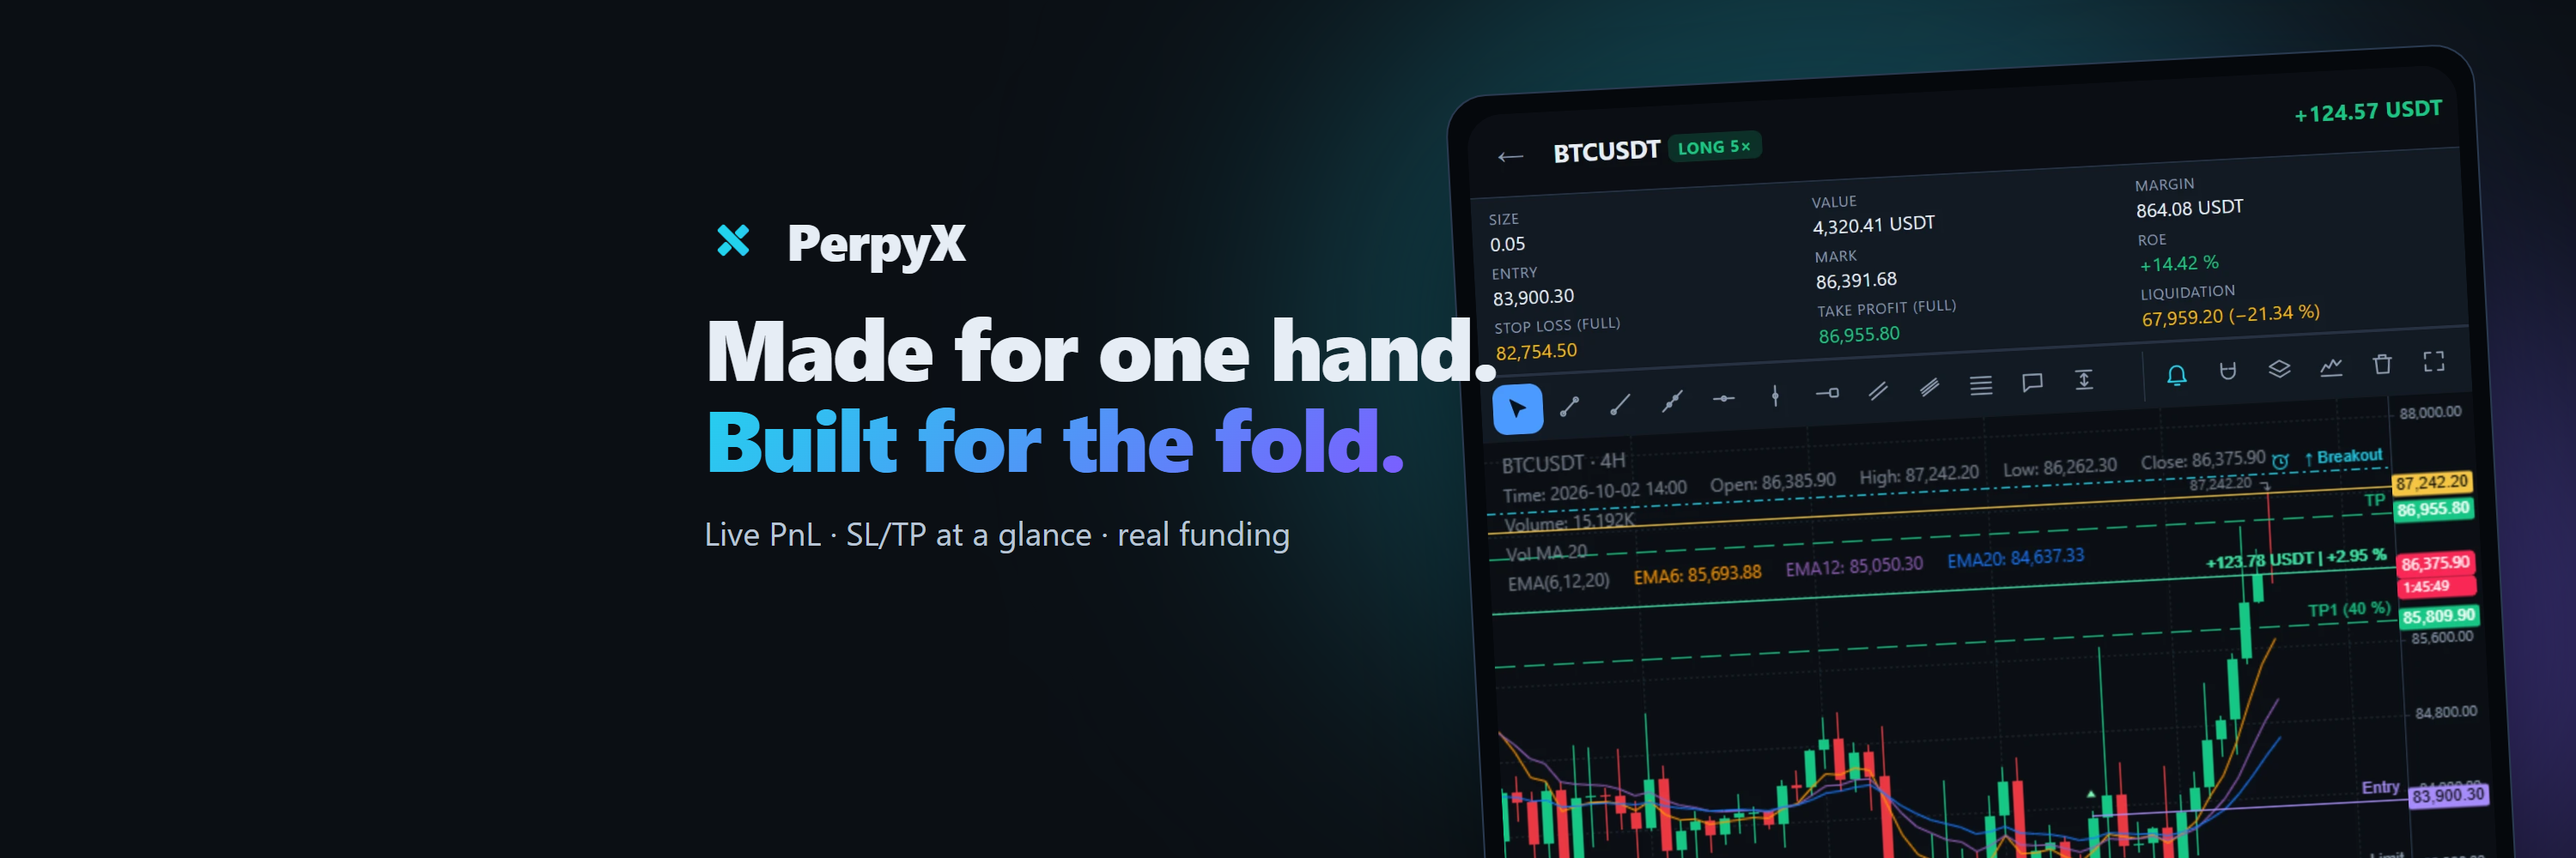
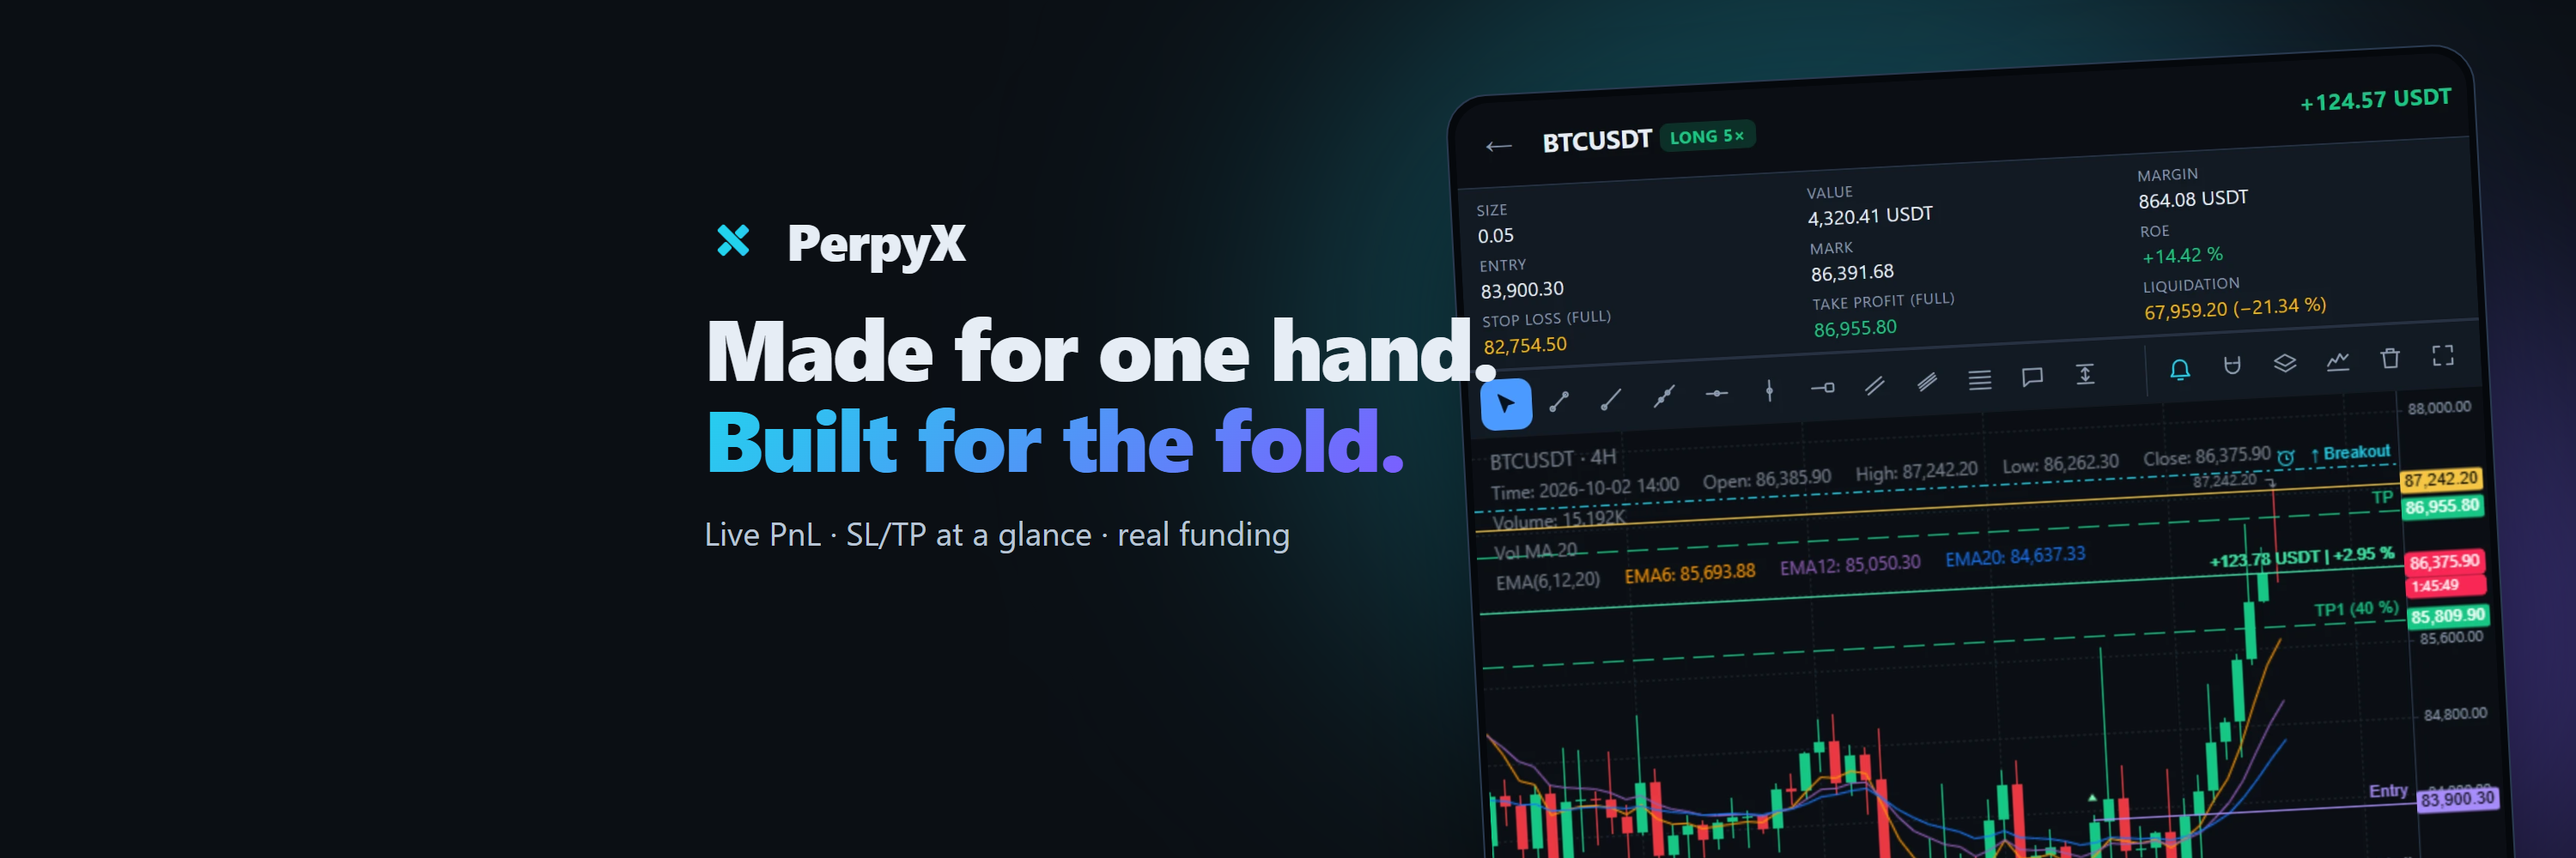
Design X: displej az k ramecku (okraj v px, ne v procentech zahlavi)
Claude-Session: https://claude.ai/code/session_015bSMKh62UKs2XyHsFmV9vj

diff --git a/design/x-profil/zahlavi.html b/design/x-profil/zahlavi.html
@@ -35,12 +35,14 @@
   /* Rámeček jako na webu (tmavý s jemnou linkou), jen tenčí: displej sahá
      skoro k okraji. Šedý kovový rámeček působil zastarale. */
   .telefon {
-    position: absolute; padding: 1.2%; background: #05080c;
+    /* Okraj v px: procenta paddingu se počítají ze šířky záhlaví, ne telefonu
+       (1,2 % = 18 px černé mezi rámečkem a displejem). */
+    position: absolute; padding: 3px; background: #05080c;
     border: 1px solid #2a3a50; border-radius: 9% / 4.2%;
     box-shadow: 0 40px 90px -30px rgba(0, 0, 0, 0.95);
   }
   .telefon img { display: block; width: 100%; border-radius: 8.2% / 3.8%; }
-  .fold { position: absolute; padding: 0.7%; background: #05080c; border: 1px solid #2a3a50; border-radius: 4% / 3.2%; box-shadow: 0 40px 90px -30px rgba(0,0,0,0.95); }
+  .fold { position: absolute; padding: 4px; background: #05080c; border: 1px solid #2a3a50; border-radius: 4% / 3.2%; box-shadow: 0 40px 90px -30px rgba(0,0,0,0.95); }
   .fold img { display: block; width: 100%; border-radius: 3.5% / 2.8%; }
   .cip { display: inline-flex; align-items: center; gap: 8px; padding: 7px 14px; border-radius: 999px; border: 1px solid var(--line); background: rgba(17, 24, 35, 0.8); color: #c3cfdd; font-size: 17px; font-weight: 600; }
   .cip.ziva { border-color: rgba(22, 199, 132, 0.6); color: var(--text); }
